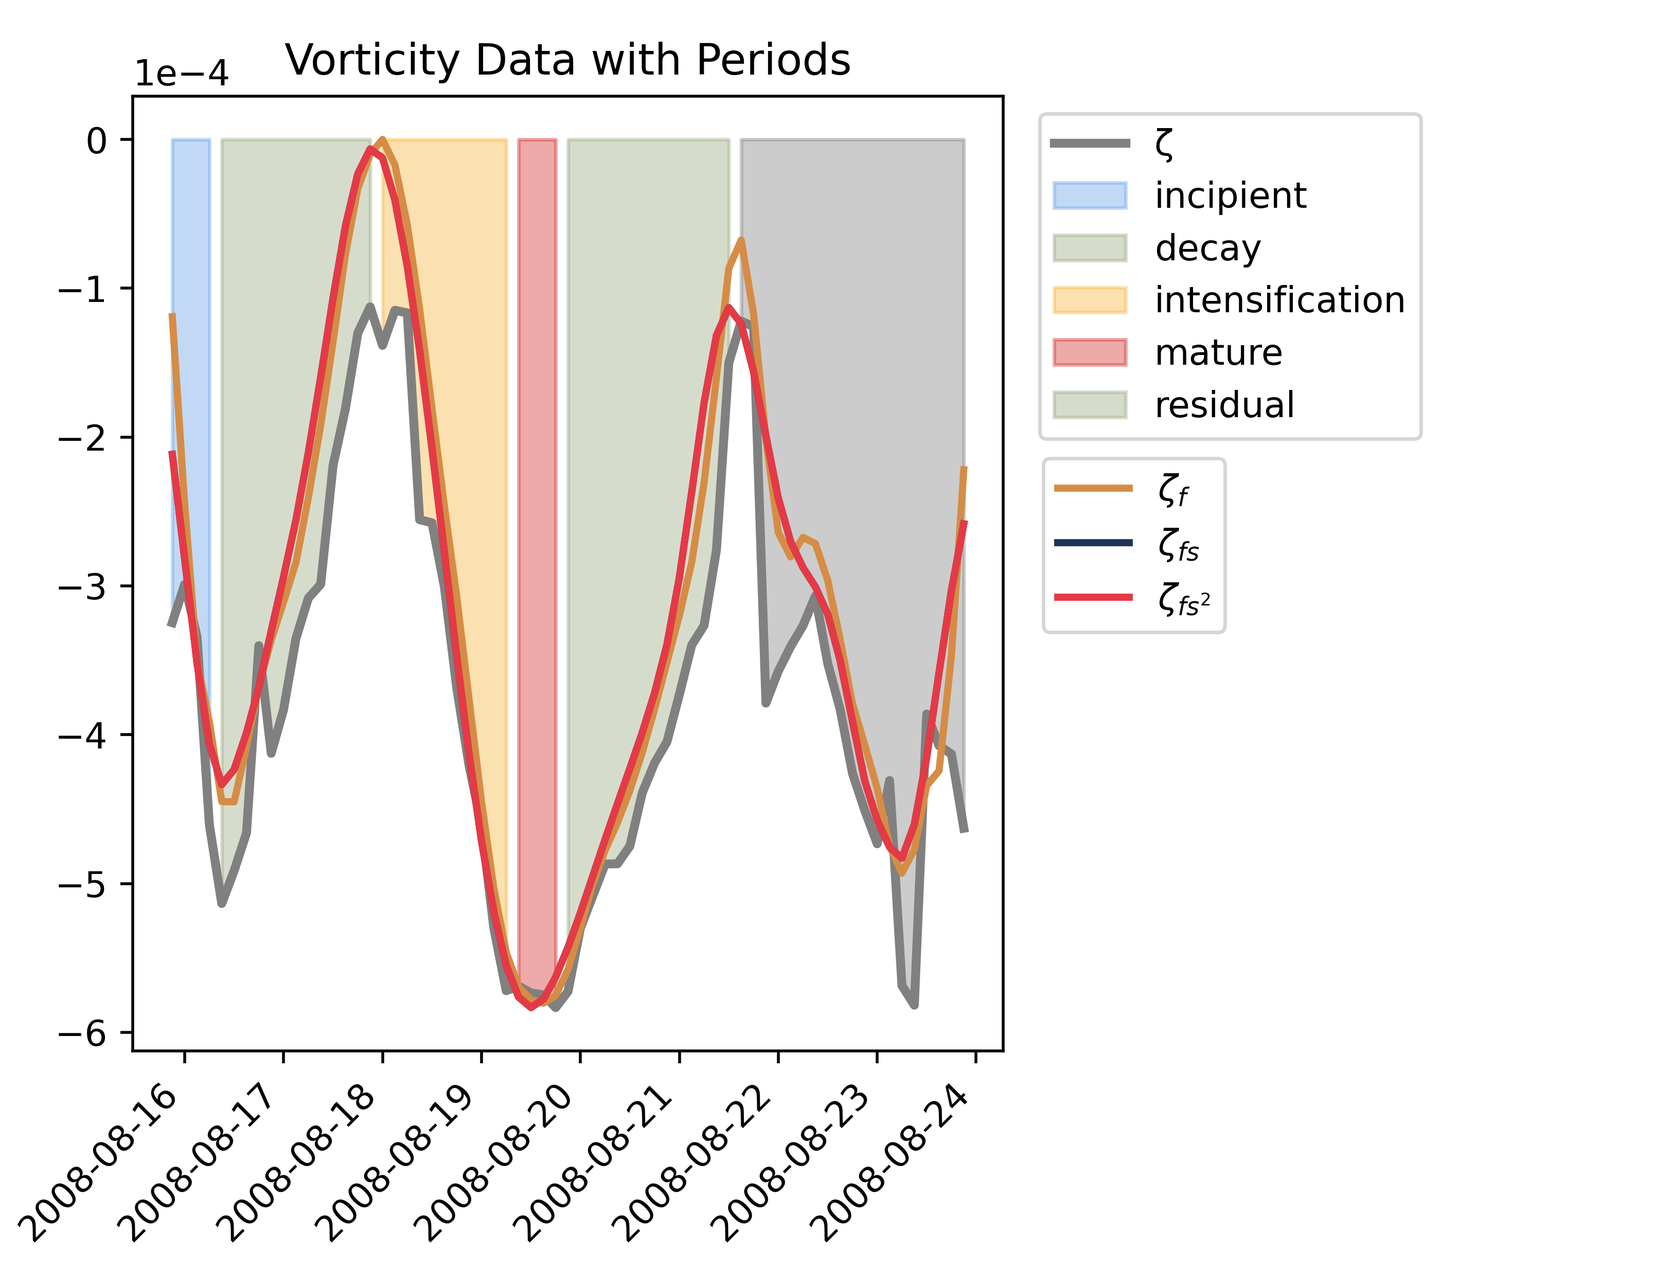
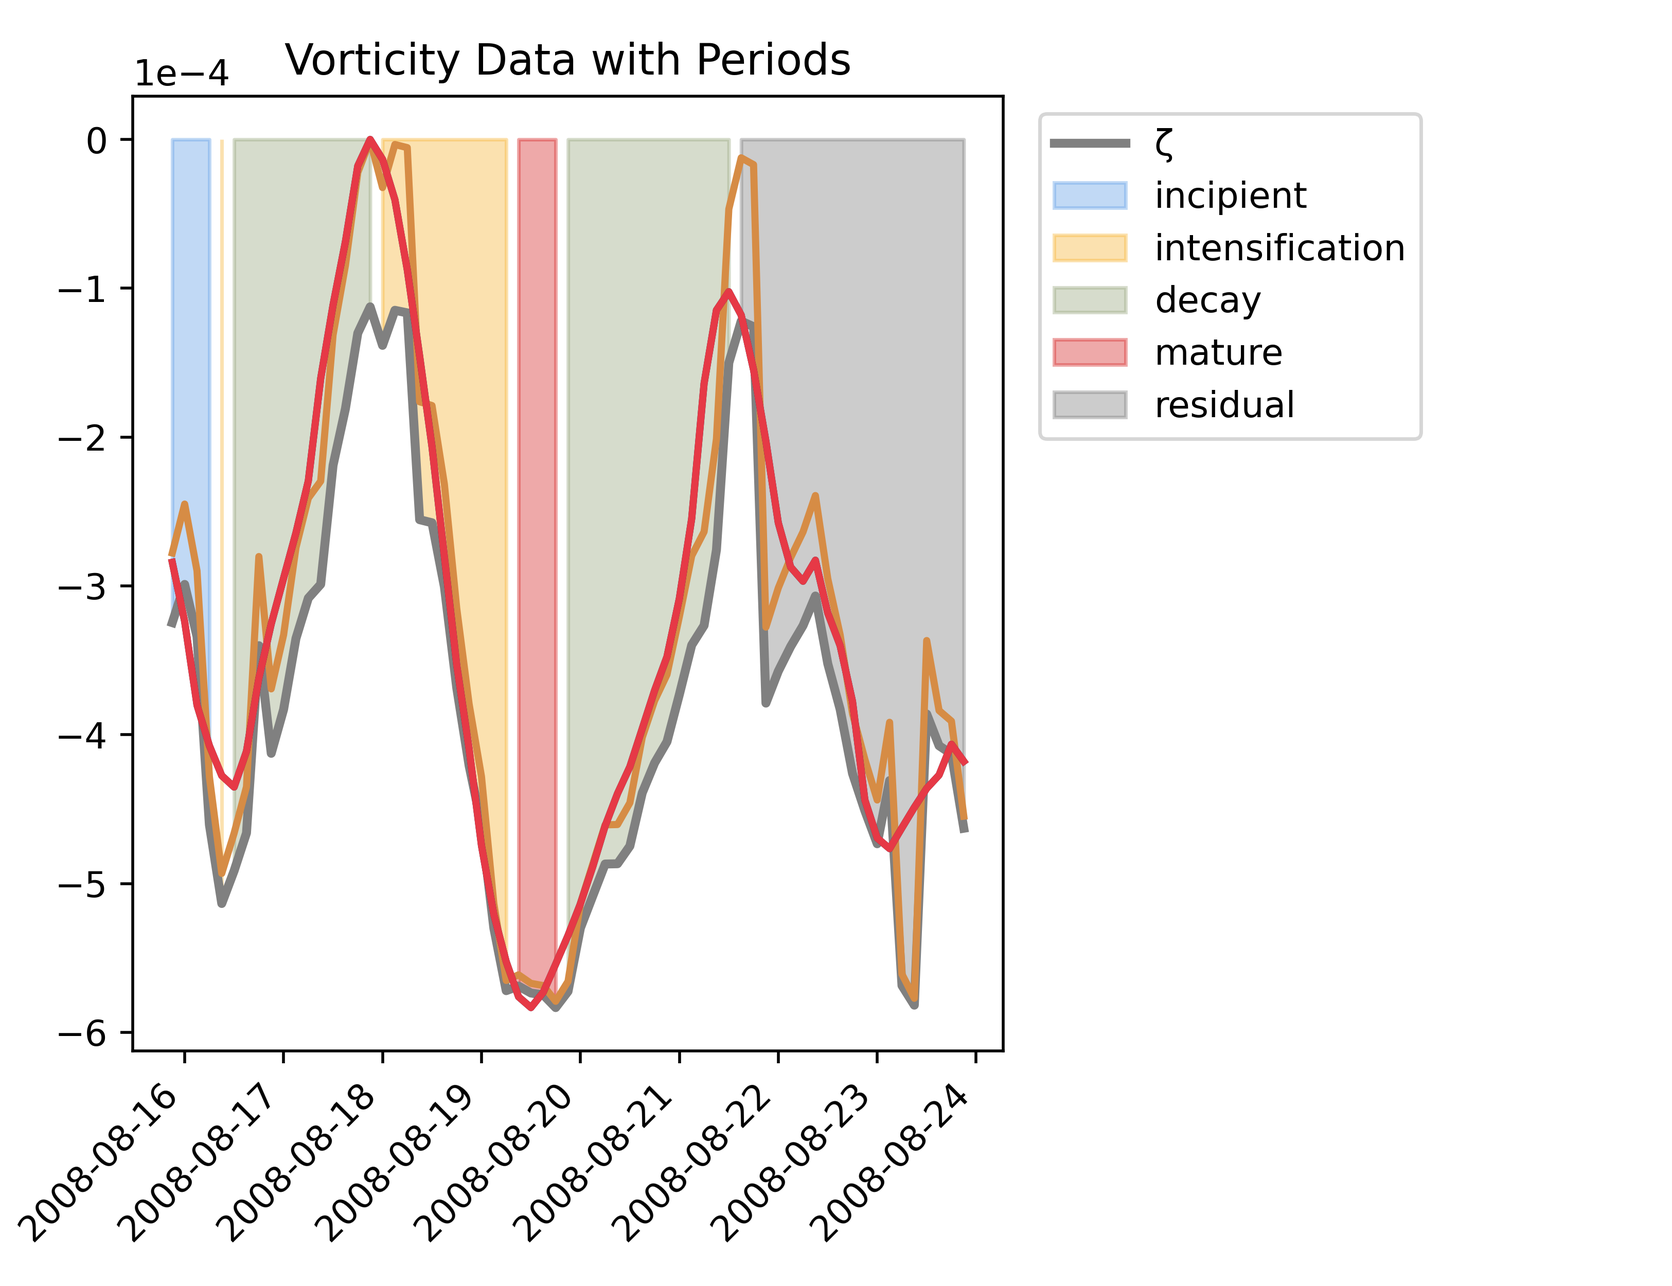
version 1.8.7

diff --git a/cyclophaser/plots.py b/cyclophaser/plots.py
@@ -171,11 +171,14 @@ def plot_peaks_valleys_series(series, ax, *peaks_valleys_series_list):
 
 
 def plot_all_periods(phases_dict, df, ax=None, vorticity=None, periods_outfile_path=None):
-    colors_phases = {'incipient': '#65a1e6',
-                      'intensification': '#f7b538',
-                        'mature': '#d62828',
-                          'decay': '#9aa981',
-                          'residual': 'gray'}
+    # Define base colors for phases
+    colors_phases = {
+        'incipient': '#65a1e6',
+        'intensification': '#f7b538',
+        'mature': '#d62828',
+        'decay': '#9aa981',
+        'residual': 'gray'
+    }
 
     # Create a new figure if ax is not provided
     if ax is None:
@@ -193,30 +196,27 @@ def plot_all_periods(phases_dict, df, ax=None, vorticity=None, periods_outfile_p
     else:
         ax.plot(df.time, df.z, linewidth=0.75, color='gray', label=r'ζ')
 
-    legend_labels = []
-    # Add legend labels for Vorticity and ζ
-    for label in [r'$ζ_{f}$', r'$ζ_{fs}$', r'$ζ_{fs^{2}}$']:
-        legend_labels.append(label)
-
-    ax2.legend(legend_labels, loc='lower right', bbox_to_anchor=(1.275, 0.42))
-
-    legend_labels = []  # To store unique legend labels
-    legend_labels.append(r'ζ')
+    # Initialize legend labels and tracked phases
+    legend_labels = [r'ζ']
+    added_phases = set()  # Track which phases have been added to the legend
 
     # Shade the areas between the beginning and end of each period
     for phase, (start, end) in phases_dict.items():
-        # Extract the base phase name (without suffix)
-        base_phase = phase.split()[0]
+        # Extract the base phase name (remove any numbers)
+        base_phase = phase.split()[0].strip()
 
         # Access the color based on the base phase name
-        color = colors_phases[base_phase]
+        color = colors_phases.get(base_phase, 'gray')  # Default to gray if phase not found
 
         # Fill between the start and end indices with the corresponding color
-        ax.fill_between(vorticity.time, vorticity.zeta.values, where=(vorticity.time >= start) & (vorticity.time <= end),
+        ax.fill_between(vorticity.time, vorticity.zeta.values,
+                        where=(vorticity.time >= start) & (vorticity.time <= end),
                         alpha=0.4, color=color, label=base_phase)
 
-        # Add the base phase name to the legend labels set
-        legend_labels.append(base_phase)
+        # Add the base phase name to the legend if it hasn't been added yet
+        if base_phase not in added_phases:
+            legend_labels.append(base_phase)
+            added_phases.add(base_phase)
 
     # Set the title
     ax.set_title('Vorticity Data with Periods')
@@ -224,20 +224,24 @@ def plot_all_periods(phases_dict, df, ax=None, vorticity=None, periods_outfile_p
     # Remove duplicate labels from the legend
     handles, labels = ax.get_legend_handles_labels()
 
-    # Get handles and labels from ax2
-    handles2, labels2 = ax2.get_legend_handles_labels()
+    # Get handles and labels from ax2 if it exists
+    if 'ax2' in locals():
+        handles2, labels2 = ax2.get_legend_handles_labels()
+        handles += handles2
+        labels += labels2
 
-    # Combine handles and labels from both ax and ax2
-    handles += handles2
-    labels += labels2
-
+    # Create a unique list of labels
     unique_labels = []
-    for label in labels:
+    unique_handles = []
+    for handle, label in zip(handles, labels):
         if label not in unique_labels and label in legend_labels:
             unique_labels.append(label)
+            unique_handles.append(handle)
 
-    ax.legend(handles, unique_labels, loc='upper right', bbox_to_anchor=(1.5, 1))
+    # Set the legend
+    ax.legend(unique_handles, unique_labels, loc='upper right', bbox_to_anchor=(1.5, 1))
 
+    # Format the date axis
     ax.ticklabel_format(axis='y', style='sci', scilimits=(-3, 3))
     date_format = mdates.DateFormatter("%Y-%m-%d")
     ax.xaxis.set_major_formatter(date_format)
@@ -245,11 +249,11 @@ def plot_all_periods(phases_dict, df, ax=None, vorticity=None, periods_outfile_p
 
     plt.tight_layout()
 
+    # Save the plot if an output file path is provided
     if periods_outfile_path is not None:
         fname = f"{periods_outfile_path}.png"
         plt.savefig(fname, dpi=500)
         print(f"{fname} created.")
-
 
 def plot_didactic(df, vorticity, output_directory, **periods_args):
     

diff --git a/cyclophaser/determine_periods.py b/cyclophaser/determine_periods.py
@@ -6,7 +6,7 @@
 #    By: daniloceano <danilo.oceano@gmail.com>      +#+  +:+       +#+         #
 #                                                 +#+#+#+#+#+   +#+            #
 #    Created: 2023/05/19 19:06:47 by danilocs          #+#    #+#              #
-#    Updated: 2024/09/17 09:34:40 by daniloceano      ###   ########.fr        #
+#    Updated: 2024/10/18 13:18:30 by daniloceano      ###   ########.fr        #
 #                                                                              #
 # **************************************************************************** #
 
@@ -461,20 +461,25 @@ def determine_periods(series: list,
 # This is purely for testing purposes
 def main():
     # Read the data from the CSV file
-    track_file = 'tests/test.csv'
-    track_file = os.path.abspath(track_file)
-    track = pd.read_csv(track_file, parse_dates=[0], delimiter=';', index_col=[0])
+    from cyclophaser import example_file
+    track = pd.read_csv(example_file, parse_dates=[0], delimiter=';', index_col=[0])
 
     # Extract the vorticity data as a list and the index as a temporal range
     series = track['min_max_zeta_850'].tolist()
     x = track.index.tolist()  # Using the DataFrame index as the temporal range
+    
+    # Example options for using CycloPhaser with default settings
+    result = determine_periods(series, x=x, plot="test_default", plot_steps="test_steps_default", export_dict="test_default")
 
-    # Testing options
+    # Example usage with custom parameters
+    result = determine_periods(series, x=x, plot='test_custom', cutoff_low=100, cutoff_high=20, use_filter=True, use_smoothing=10, use_smoothing_twice=False)
+
+    # Test the determine_periods function with custom thresholds
     result = determine_periods(
         series=series,
         x=x,
-        plot="test",
-        plot_steps="test_steps",
+        plot="test_bad_options",
+        plot_steps="test_steps_bad_options",
         export_dict=False,
         use_filter=False,                  
         use_smoothing_twice=False,         
@@ -485,16 +490,6 @@ def main():
         threshold_decay_length=0.075,           
         threshold_decay_gap=0.075,             
         threshold_incipient_length=0.4          
-    )
-
-    
-    # Test the determine_periods function with default values
-    result = determine_periods(
-        series=series,
-        x=x,
-        plot="test_default",
-        plot_steps="test_steps_default",
-        export_dict=False
     )
 
 if __name__ == '__main__':

diff --git a/setup.py b/setup.py
@@ -3,7 +3,7 @@ from setuptools import setup, find_packages
 with open('README.md', encoding='utf-8') as f:
     long_description = f.read()
 
-VERSION = '1.8.6'
+VERSION = '1.8.7'
 DESCRIPTION = 'Determine phases from extratropical cyclone life cycle'
 # LONG_DESCRIPTION = 'This script processes vorticity data, identifies different phases of the cyclone \
     # and plots the identified periods on periods.png and periods_didatic.png'
@@ -18,7 +18,33 @@ setup(
     author_email="danilo.oceano@gmail.com",
     license='MIT',
     packages=find_packages(),
-    install_requires=[],
+    install_requires=[
+        "cmocean==4.0.3",
+        "contourpy==1.3.0",
+        "cycler==0.12.1",
+        "fonttools==4.53.1",
+        "iniconfig==2.0.0",
+        "kiwisolver==1.4.7",
+        "matplotlib==3.9.2",
+        "numpy==2.1.1",
+        "packaging==24.1",
+        "pandas==2.2.2",
+        "pillow==10.4.0",
+        "pluggy==1.5.0",
+        "pyparsing==3.1.4",
+        "pytest==8.3.3",
+        "python-dateutil==2.9.0.post0",
+        "pytz==2024.2",
+        "scipy==1.14.1",
+        "setuptools==72.1.0",
+        "six==1.16.0",
+        "tzdata==2024.1",
+        "wheel==0.44.0",
+        "xarray==2024.9.0"
+    ],
+    package_data={
+        'cyclophaser': ['example_data/example_file.csv'],
+    },
     keywords=['cyclone', 'vorticity', 'meteorology', 'atmospherical sciences'],
     classifiers= [
         "Development Status :: 3 - Alpha",

diff --git a/cyclophaser/__init__.py b/cyclophaser/__init__.py
@@ -1,1 +1,5 @@
 from .determine_periods import determine_periods
+import pathlib
+
+here = pathlib.Path(__file__).parent
+example_file = str(here / "example_data" / "example_file.csv")

diff --git a/docs/statement_of_need.rst b/docs/statement_of_need.rst
@@ -1,0 +1,35 @@
+Statement of Need
+=================
+
+Extratropical cyclones are key features of the climate system. In South America, they are especially important due to the presence of cyclogenesis hotspots in southeast Brazil (SE-BR), the La Plata River basin (LA-PLATA), and southeastern Argentina (ARG) [1]_ [2]_. These cyclones can cause extreme precipitation, intense winds, high sea waves, and landslides, significantly impacting communities [3]_ [4]_ [5]_ [6]_. Understanding their temporal and spatial development and evolution is crucial for improving forecasts, ultimately aiding in the adoption of mitigation and adaptation strategies.
+
+Accurately identifying the regions where cyclones are positioned throughout their distinct life cycle stages remains a significant challenge in atmospheric sciences. Seminal works by Bjerknes and Solberg [7]_, Shapiro and Keyser [8]_, and Neiman and Shapiro [9]_ described extratropical cyclone life cycles in terms of structural changes and large-scale dynamics. However, these classifications were based on manual analysis of satellite imagery and synoptic charts, limiting their applicability to large datasets with multiple cyclone cases. 
+
+Recent research has sought to objectively define cyclone life cycle stages using techniques such as normalizing the life cycle duration [10]_ [11]_ or bisecting the cycle into "intensification" and "decay" phases by focusing on periods before and after peak vorticity or the lowest central pressure [12]_ [13]_ [14]_ [15]_ [16]_. While these approaches support the study of cyclone intensification and decay, they tend to overlook critical phases such as the incipient stage — where environmental dynamics are still adapting to the developing low-level disturbance and surface isobars are not yet fully closed. Additionally, they treat the mature phase as a single time step, failing to account for the possibility that it may encompass multiple time steps during which the cyclone exhibits homogeneous features.
+
+The pioneering work by Couto de Souza et al. [17]_ was the first to offer a comprehensive analysis of extratropical cyclone life cycles, dissecting systems into distinct life cycle phases and enabling the detection of multiple configurations across different systems. This study presents the Python package that facilitated such work. The method allows for an automated classification of cyclone life cycle stages, enabling the efficient processing of large datasets with minimal computational cost. This tool opens new avenues for research, such as analyzing cyclone life cycle behavior in climate change projections, enabling comparisons with present-day climates, and providing insights into how cyclone life cycles may evolve in response to climate variability. Additionally, it offers potential for assisting model validation by comparing the spatial positioning of life cycle phases across different models and reanalysis datasets. The package is both flexible and fully customizable, making it adaptable to a wide range of datasets and research needs.
+
+.. figure:: _images/density_map_Aggregate.png
+   :alt: Yearly cyclone track densities for South American cyclogenesis regions.
+
+   Yearly cyclone track densities normalized for the three cyclogenesis regions along the South American coast (SE-BR, LA-PLATA, and ARG). Contours represent normalized track densities above 0.8, plotted individually for each region. Details regarding the genesis regions, tracking procedures, and analysis techniques are discussed in Couto de Souza et al. [17]_.
+
+.. rubric:: References
+
+.. [1] Gramcianinov, C. B. et al. (2019). The properties and genesis environments of South Atlantic cyclones. *Climate Dynamics*, 53, 4115-4140. DOI: https://doi.org/10.1007/s00382-019-04778-1
+.. [2] Cardoso, A. A. et al. (2022). Synoptic Climatology of Subtropical Cyclone Impacts on Near-Surface Winds Over the South Atlantic Basin. *Earth and Space Science*, 9(11). DOI: https://doi.org/10.1029/2022ea002482
+.. [3] De Souza, D. C. et al. (2021). Ocean-Land Atmosphere Model (OLAM) performance for major extreme meteorological events near the coastal region of southern Brazil. *Climate Research*, 84, 1-21. DOI: 10.3354/cr01651
+.. [4] De Souza, D. C. et al. (2024). Extreme rainfall and landslides as a response to human-induced climate change: a case study at Baixada Santista, Brazil, 2020. *Natural Hazards*. DOI: https://doi.org/10.1007/s11069-024-06621-1
+.. [5] Cardoso, A. A. et al. (2022). Synoptic Climatology of Subtropical Cyclone Impacts on Near-Surface Winds Over the South Atlantic Basin. *Earth and Space Science*, 9(11), e2022EA002482. DOI: https://doi.org/10.1029/2022ea002482
+.. [6] Gramcianinov, C. B. et al. (2023). Impact of extratropical cyclone intensity and speed on the extreme wave trends in the Atlantic Ocean. *Climate Dynamics*, 60, 1447-1466. DOI: https://doi.org/10.21203/rs.3.rs-995499/v1
+.. [7] Bjerknes, J. and Solberg, H. (1922). *Life Cycle of Cyclones and the Polar Front Theory of Atmospheric Circulation*. Grondahl. DOI: 10.1175/1520-0493(1922)50<468:JBAHSO>2.0.CO;2
+.. [8] Shapiro, M. A. and Keyser, D. (1990). *Fronts, Jet Streams and the Tropopause*. Springer. DOI: https://doi.org/10.1007/978-1-944970-33-8_10
+.. [9] Neiman, P. J. and Shapiro, M. A. (1993). The Life Cycle of an Extratropical Marine Cyclone. Part I: Frontal-Cyclone Evolution and Thermodynamic Air-Sea Interaction. *Monthly Weather Review*, 121(8), 2153-2176. DOI: https://doi.org/10.1175/1520-0493(1993)121<2153:TLCOAE>2.0.CO;2
+.. [10] Schemm, S., Sprenger, M., and Wernli, H. (2018). When during Their Life Cycle Are Extratropical Cyclones Attended by Fronts? *Bulletin of the American Meteorological Society*, 99(1), 149-165. DOI: https://doi.org/10.1175/bams-d-16-0261.1
+.. [11] Rudeva, I. and Gulev, S. K. (2007). Climatology of Cyclone Size Characteristics and Their Changes during the Cyclone Life Cycle. *Monthly Weather Review*, 135(7), 2568-2587. DOI: https://doi.org/10.1175/mwr3420.1
+.. [12] Dacre, H. F. and Gray, S. L. (2009). The Spatial Distribution and Evolution Characteristics of North Atlantic Cyclones. *Monthly Weather Review*, 137(1), 99-115. DOI: https://doi.org/10.1175/2008mwr2491.1
+.. [13] Trigo, I. F. (2006). Climatology and interannual variability of storm-tracks in the Euro-Atlantic sector: a comparison between ERA-40 and NCEP/NCAR reanalyses. *Climate Dynamics*, 26(2), 127-143. DOI: https://doi.org/10.1007/s00382-005-0065-9
+.. [14] Azad, R. and Sorteberg, A. (2014). The Vorticity Budgets of North Atlantic Winter Extratropical Cyclone Life Cycles in MERRA Reanalysis. Part I: Development Phase. *Journal of the Atmospheric Sciences*, 71(9), 3109-3128. DOI: https://doi.org/10.1175/jas-d-13-0267.1
+.. [15] Booth, J. F. et al. (2018). Extratropical Cyclone Precipitation Life Cycles: A Satellite-Based Analysis. *Geophysical Research Letters*, 45(16), 8647-8654. DOI: https://doi.org/10.1029/2018gl078977
+.. [16] Michaelis, A. C. et al. (2017). Changes in Winter North Atlantic Extratropical Cyclones in High-Resolution Regional Pseudo–Global Warming Simulations. *Journal of Climate*, 30(17), 6905-6925. DOI: https://doi.org/10.1175/jcli-d-16-0697.1
+.. [17] Couto de Souza, D. et al. (2024). New perspectives on South Atlantic storm track through an automatic method for detecting extratropical cyclones' lifecycle. *International Journal of Climatology*, 44(10), 3568-3588. DOI: https://doi.org/10.1002/joc.8539

diff --git a/CHANGELOG.md b/CHANGELOG.md
@@ -5,6 +5,31 @@ All notable changes to this project will be documented in this file.
 The format is based on [Keep a Changelog](http://keepachangelog.com/)
 and this project adheres to [Semantic Versioning](http://semver.org/).
 
+## [1.8.7] - 2024-10-18
+
+### Bug Fixes and Improvements
+- **Resolved Legend Color Duplication Issue**: Updated the `plot_all_periods` function to handle multiple occurrences of the same phase (e.g., "intensification", "decay") and ensure that the phase is displayed only once in the legend, regardless of how many times it appears.
+  - Generalized the phase handling so that it can manage any number of phase repetitions (e.g., "intensification 2", "mature 3") without affecting the plot’s visual integrity.
+  - Fixed the issue with the residual phase showing the wrong color by ensuring that colors for phases are correctly mapped in all cases.
+  
+### Documentation Updates
+- **Added Statement of Need Section**: Incorporated the Statement of Need from the paper into the documentation, explaining the relevance and purpose of the CycloPhaser package, along with detailed references.
+  - Improved the introduction to the example in the `usage.rst` to clarify what data is loaded, providing background on the test data for users.
+  - Replaced the figures in the `usage.rst` for the ones with the corrected colors.
+  - Updated the example in the documentation to use the new structure for accessing the test data
+  
+### Package Management
+- **Added Dependencies to `setup.py`**: Ensured all necessary dependencies are included in the `setup.py` file, resolving the issue of missing dependencies when installing the package via `pip install cyclophaser`.
+  - Verified that all dependencies are correctly installed when the package is installed using pip.
+
+### Test Data Accessibility
+- **Made Test CSV File Accessible from the Package**: Moved the example test data (`example_file.csv`) to be accessible from the installed package under the `cyclophaser` directory, ensuring that users can run examples without needing to modify paths manually.
+  - Updated the usage examples to reflect the new accessible path for the test file.
+
+### Other Improvements
+- **Updated Column Names in Example**: Corrected the column name in the example provided in the `usage.rst` to `min_max_zeta_850` (previously `min_zeta_850`), ensuring that the example code runs successfully with the test data provided.
+
+
 ## [1.8.6] - 2024-10-03
 
 ### Documentation Improvement

diff --git a/docs/usage.rst b/docs/usage.rst
@@ -6,7 +6,12 @@ Usage Guide
 .. contents::
    :local:
    :depth: 2
-   
+
+Introduction
+------------
+
+The example provided in this guide demonstrates how to use the CycloPhaser package to analyze the life cycle phases of an extratropical cyclone. The data used in this example corresponds to the track file of a specific extratropical cyclone whose genesis occurred near the eastern coast of Argentina. This track file was produced using the LorenzCycleToolkit (https://github.com/daniloceano/LorenzCycleToolkit). The file contains the cyclone's position, as well as information regarding the minimum relative vorticity, geopotential height, and maximum wind speeds within a defined domain centered on the cyclone. CycloPhaser helps in dissecting this cyclone into distinct life cycle phases using the minimum vorticity time series.
+
 Arguments and Parameters for determine_periods
 ----------------------------------------------
 
@@ -23,7 +28,6 @@ Arguments and Parameters for determine_periods
 - **cutoff_low**: (float, optional) Low-frequency cutoff for the Lanczos filter. Default is 168.
 - **cutoff_high**: (float, optional) High-frequency cutoff for the Lanczos filter. Default is 48.
 
-
 Example Usage
 -------------
 
@@ -31,13 +35,12 @@ Below is an example of using the CycloPhaser package with default options. The f
 
 .. code-block:: python
 
-   from cyclophaser import determine_periods
+   from cyclophaser import determine_periods, example_file
    import pandas as pd
 
    # Load test data
-   track_file = 'tests/test.csv'
-   track = pd.read_csv(track_file, parse_dates=[0], delimiter=';', index_col=[0])
-   series = track['min_zeta_850'].tolist()
+   track = pd.read_csv(example_file, parse_dates=[0], delimiter=';', index_col=[0])
+   series = track['min_max_zeta_850'].tolist()
    x = track.index.tolist()
 
    # Example options for using CycloPhaser with default settings
@@ -98,7 +101,7 @@ In the previous example, the phase positioning might not match expectations for 
 .. figure:: _images/test_custom.png
     :alt: Vorticity Data with Detected Periods and Custom Parameters
 
-    Cyclone phases poistining corrected using default parameters.
+    Cyclone phases positioning corrected using default parameters.
 
 Important Notes
 ---------------

diff --git a/docs/index.rst b/docs/index.rst
@@ -11,6 +11,7 @@ Contents:
    :maxdepth: 2
 
    overview
+   statement_of_need
    installation
    usage
    testing
